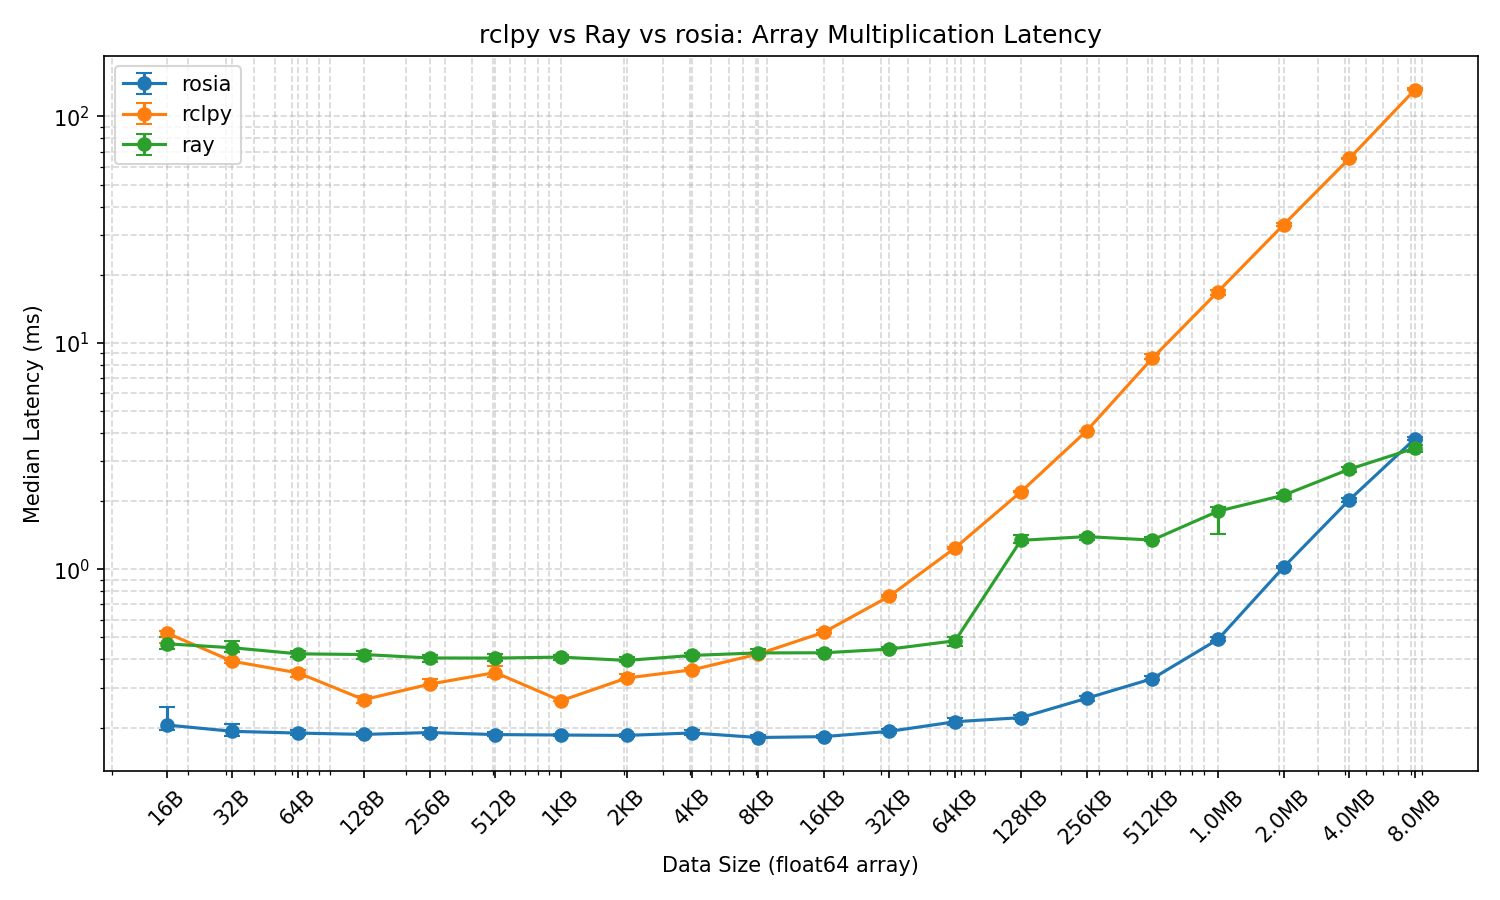
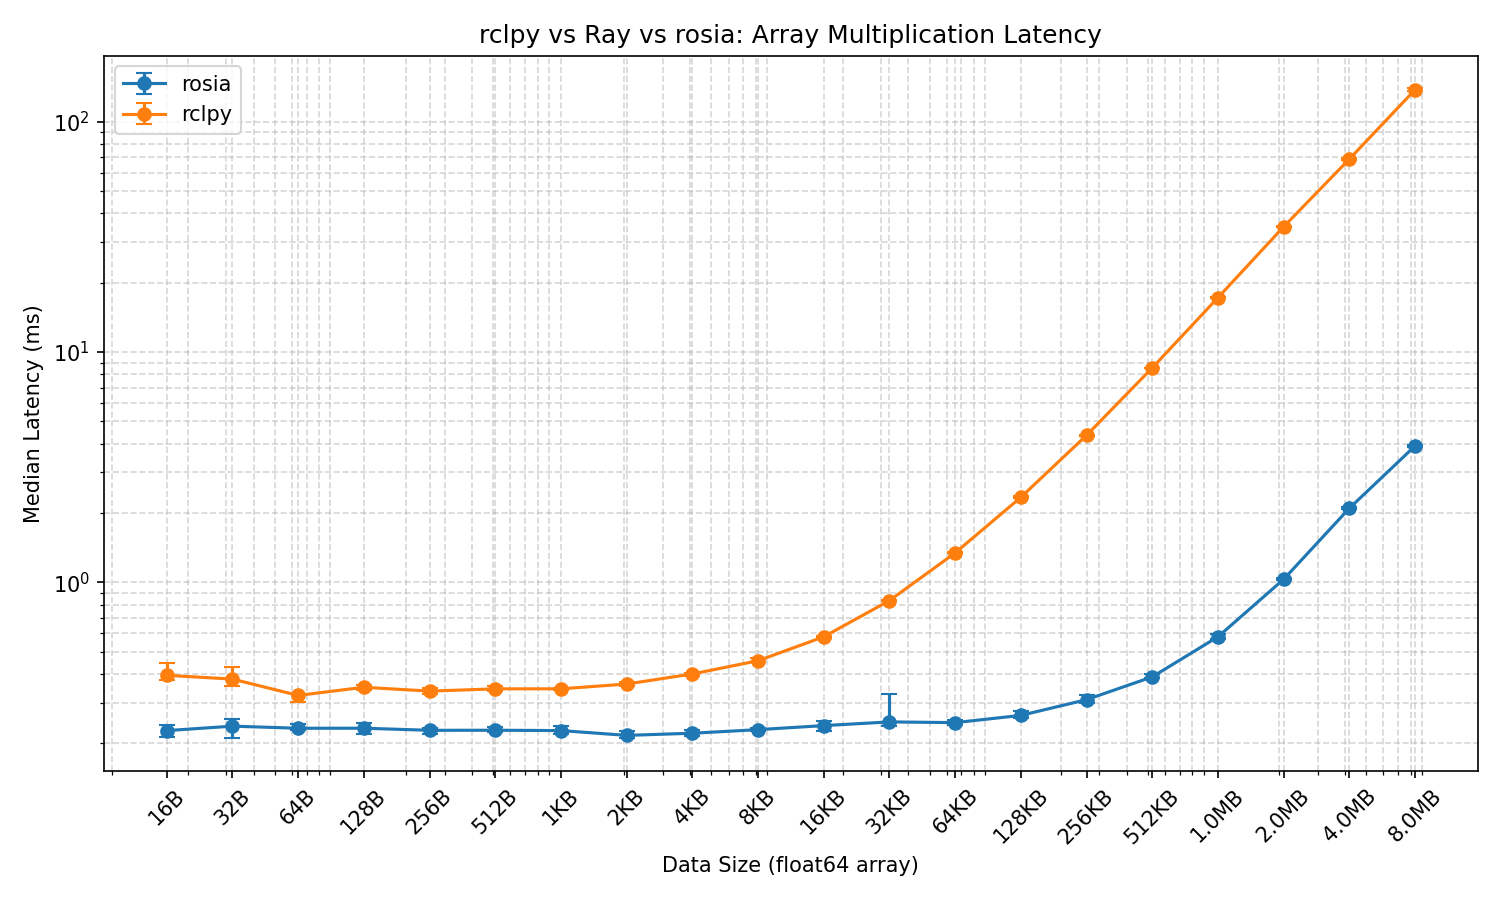
docs: update

Changed region(s): [[0.0307, 0.3422, 0.9813, 0.84], [0.0307, 0.1244, 0.9813, 0.3422]]

diff --git a/benchmark/benchmarks/run_benchmarks.py b/benchmark/benchmarks/run_benchmarks.py
@@ -61,7 +61,6 @@ RESULTS_DIR = os.path.join(os.path.dirname(os.path.abspath(__file__)), "..", "re
 def main():
     # Lazy imports to avoid circular dependency
     from rclpy_bench import benchmark_rclpy
-    from ray_bench import benchmark_ray
     from rosia_bench import benchmark_rosia
 
     os.makedirs(RESULTS_DIR, exist_ok=True)
@@ -71,7 +70,7 @@ def main():
     benchmarks = {
         "rosia": lambda: benchmark_rosia(ARRAY_SIZES, num_iterations=NUM_ITERATIONS),
         "rclpy": lambda: benchmark_rclpy(ARRAY_SIZES, num_iterations=NUM_ITERATIONS),
-        "ray": lambda: benchmark_ray(ARRAY_SIZES, num_iterations=NUM_ITERATIONS),
+        # "ray": lambda: benchmark_ray(ARRAY_SIZES, num_iterations=NUM_ITERATIONS),
     }
 
     for name, run_fn in benchmarks.items():

diff --git a/docs/docs/tutorial/logical_time.md b/docs/docs/tutorial/logical_time.md
@@ -4,56 +4,30 @@ sidebar_position: 6
 
 # Logical Time
 
-In Rosia, each node has it's own _logical time_. It can be the physical time of your computer's clock, it can be time in the simulation you're running, or it could be any ordering of messages of events that you define it to be.
+In Rosia, _logical time_ is the timestamp system used for ordering and synchronization. It is up to you to control logical time within each node, and Rosia will take care of execution and synchronization across nodes.
 
-The logical time can be monotonoically increased in the following ways:
+Logical time is a monotonically increasing value. You can think of it as an order specification for messages and code execution. A message with a smaller logical time will be processed with a reaction before a message with a large logical
+time.
 
-- Before executing `start()`, each node's logical time is set to `Time(0)`.
-- Inside `start()` and reactions marked with `@reaction()` annotator, you can manually advance time by interval `<Time>` with `yield <Time>`. For example, `yield 1*s` will advance logical time by 1 second.
+Messages with the same logical time are considered simultaneous. As shown in example [Synchronization](tutorial/synchronization), if multiple input ports have the same logical time, they will be synchronized to only trigger the reaction
+once.
+
+Each node has logical time `Time(0)` when `start()` is called at the beginning of execution. The logical time can be manipulated in `start()` and reactions marked with `@reaction()` annotator in the following ways:
+
+- `yield <Time>` pauses the current reaction, and resumes after the specified logical time interval. In the meantime, it will process other reactions.
+- `rosia.advance_logical_time(<Time>)` API allows you to directly advance logical time by a specified amount. The difference from `yield` is that it will not process other reactions in the meantime, and will raise warnings if reactions are
+  skipped. Only use this API when you are sure that there won't be any reactions skipped.
 - When a reaction is triggered by reacting to input ports defined in `@reaction(<ports>)`, the node will advance logical time to the logical time associated with the message received at the input port.
-
-The point of having logical time is to give an order to all messages and reactions. Messages with the same logical time are considered simultaneous. As shown in example [Synchronization](tutorial/synchronization), if multiple input ports
-have the same logical time, they will be synchronized to only trigger the reaction once.
 
 # Safe To Advance To (STAT)
 
-Apart from logical time, each node also maintains a Safe To Advance To(STAT) Time value. STAT acts as a safeguard for the increase of logical time: the node's logical time is only allowed to advance to $t$ < STAT.
+Apart from logical time, each node also maintains a Safe To Advance To(STAT) time value. STAT acts as a safeguard for the increase of logical time: the node's logical time is only allowed to advance to $t$ < STAT.
 
-By default, STAT is set to `forever`, meaning that the logical time can grow whenever it wants. Consider a reaction with two input ports A and B. If A receives a message with logical time $t_A$, the node will immediately advance to $t_A$
-since $t_A < \text{STAT}=\text{forever}$. Now the node receives another message with logical time $t_B <= t_A$ and this will cause a problem since we now have to go backwards in time to process the new message.
+By default, STAT is set to `forever`, meaning that the logical time can grow whenever it wants. Consider a reaction triggered by two input ports A and B. If A receives a message with logical time $t_A$, the node will immediately advance to
+$t_A$ since $t_A < \text{STAT}=\text{forever}$. Now the node receives another message with logical time $t_B <= t_A$ and this will cause a problem since we now have to go backwards in time to process the new message.
 
-This can be solved with decreasing STAT. If we know $t_B$ in advance and set STAT to $t_B$, since $t_B <= t_A$, when we receive the message on port A, we know that we cannot process it yet since we have to wait for the message from $t_B$.
+This can be solved with STAT. If we know $t_B$ in advance and set STAT to $t_B$, since $t_B <= t_A$, when we receive the message on port A, we know that we cannot process it yet since we have to wait for the message from $t_B$.
 
-The calculation of STAT get complicated when there are multiple nodes and ports.
+# Configuring STAT
 
-# Loops
-
-How to send message with timestamp in the future?
-
-Send messages without actually increasing node's logical time. after delay. No!
-
-Yield to t does not process input event at t yet. It just process all input events < t. Then finish yield. Though logical time is at time t, the input events are not processed.
-
-If another reaction yields at the same timestamp, just put it after the previous yield.
-
-# Structures
-
-- logical_time
-- STAT
-
-- event queue: input messages at each timestamp
-- reaction_queue: ordered by timestamp, then by yield order
-
-# Event loop
-
-- drain message queue and put on event queue, update stat while doing so
-- advance time
-  - execute reaction queue at the current time stamp # This should only contain yielded reactions
-  - put event queue onto reaction queue
-  - loop
-- loop
-
-# Yield Procedure
-
-- put generator onto reaction queue at the yield timestamp
-- go into event loop
+A STAT can be set for each output port when sending an message.

diff --git a/docs/docs/quick-start.md b/docs/docs/quick-start.md
@@ -4,7 +4,7 @@ sidebar_position: 1
 
 # Quick Start
 
-Let's get started with **Rosia in less than 5 minutes**.
+Let's get started with **Rosia in less than 3 minutes**.
 
 ## Installation
 